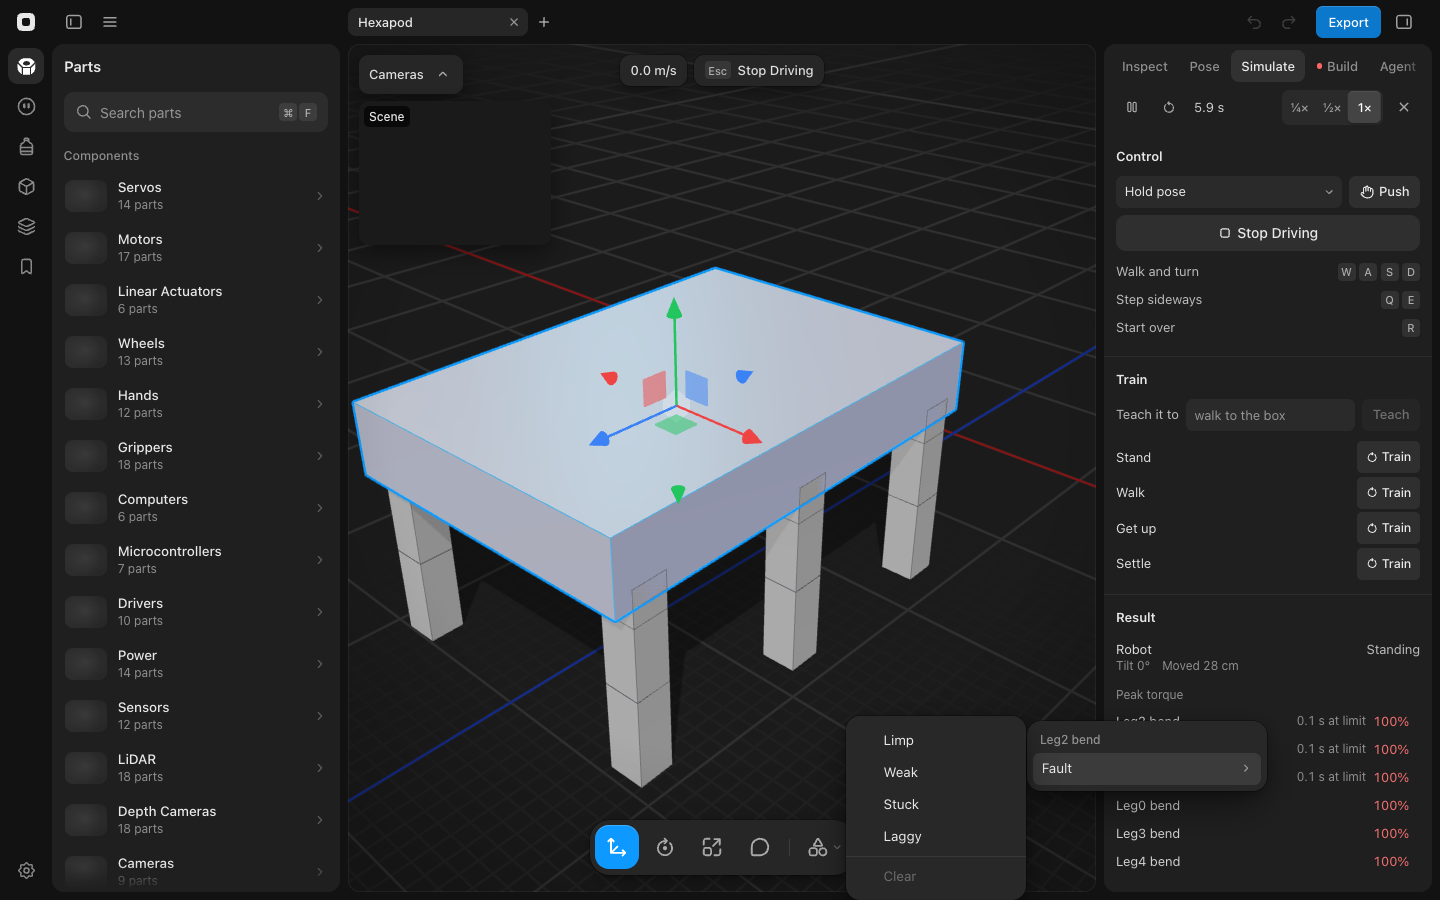
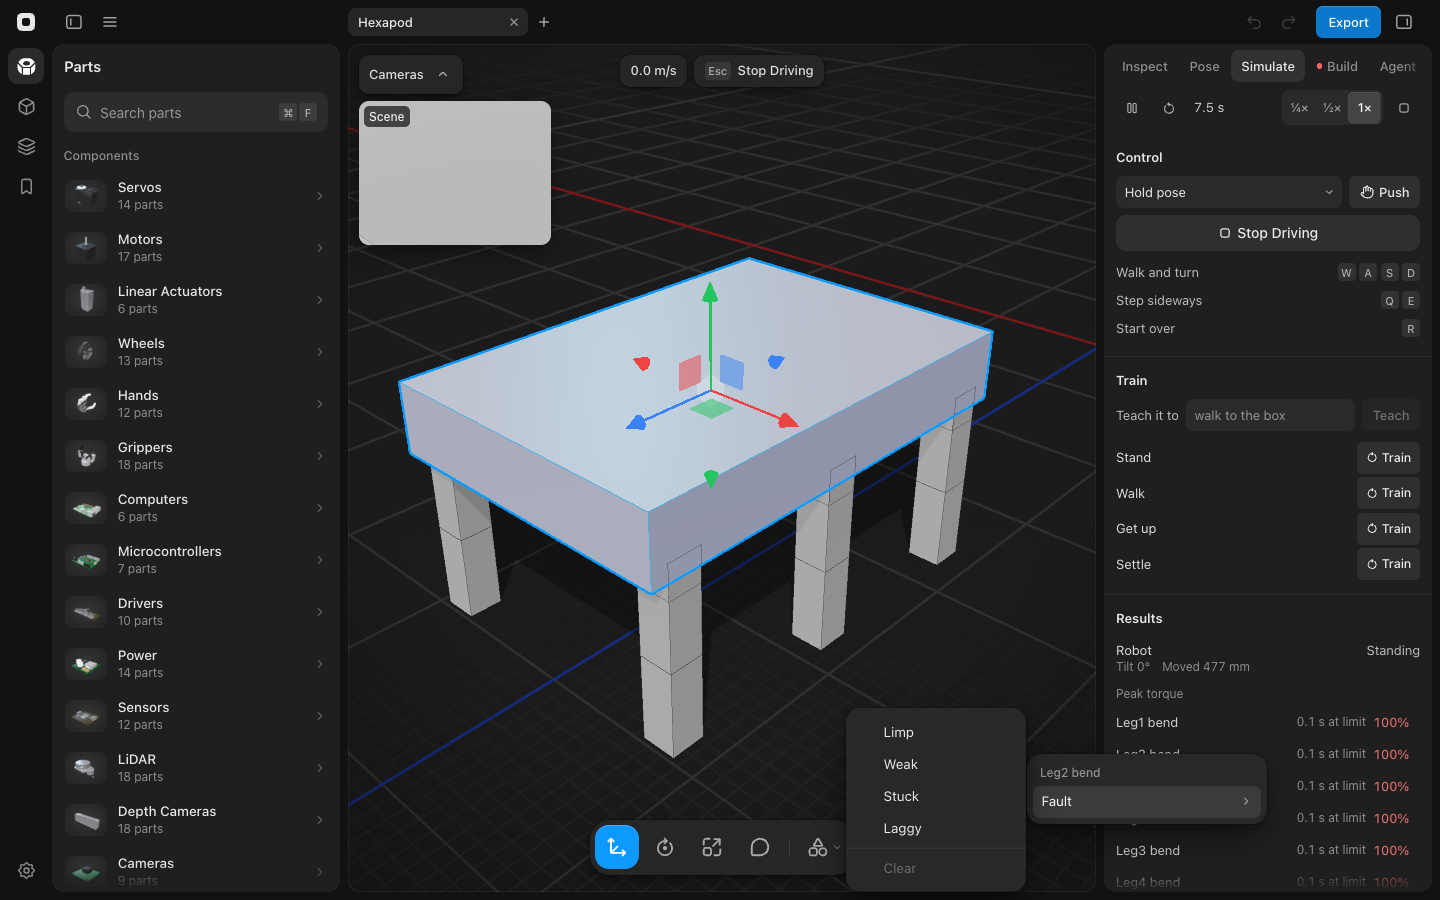
Recapture Fail a servo mid-run's screenshots in the new length format
The runner flagged 15 help articles that cover files this change edits.
Reading them against the new code, two screenshots in Fail a servo
mid-run still showed the Simulate result as "Moved 53 cm" and "Moved 28
cm", which now reads in mm. Both were recaptured from a production bundle
by following the article's steps on the hexapod. They now read "Moved 477
mm" and "Moved 762 mm", with the Fault menu and the Limp row on Leg2 bend
as their alt text says. The other 14 articles still hold.

diff --git a/src/cases/caseGoals.ts b/src/cases/caseGoals.ts
@@ -165,7 +165,7 @@ export const routeClearance = (robot: BuilderRobot) =>
 const blockRunUp = (robot: BuilderRobot) =>
   2 * (BLOCK_DEPTH_MM + routeClearance(robot) * 1.2 + robot.footprint.depth + robot.footprint.width);
 
-export const mm = (x: number) => `${Math.round(x)} mm`;
+const setLength = (x: number) => `${Math.round(x)} mm`;
 
 const reachGoal: CaseGoal = {
   kind: 'reach',
@@ -174,7 +174,7 @@ const reachGoal: CaseGoal = {
   params: ['distanceMm', 'radiusMm', 'seconds'],
   plan: (robot, v, _world, [named] = []) => {
     const [x, z] = named ? [named.at[0], named.at[2]] : [robot.pivot[0], robot.pivot[2] + v.distanceMm];
-    const where = named ? named.phrase : `${mm(v.distanceMm)} ahead`;
+    const where = named ? named.phrase : `${setLength(v.distanceMm)} ahead`;
 
     return {
       brief: `Reach the spot ${where} and stop on it.`,
@@ -276,7 +276,7 @@ const pushGoal: CaseGoal = {
     const behind = half + robot.footprint.depth / 2;
 
     return {
-      brief: `Push the box ${mm(v.pushMm)} onto the spot.`,
+      brief: `Push the box ${setLength(v.pushMm)} onto the spot.`,
       slot: groundSlot(robot),
       objects: [
         {
@@ -348,7 +348,7 @@ const walkGoal: CaseGoal = {
   needs: ['legs'],
   params: ['distanceMm', 'seconds'],
   plan: (robot, v) => ({
-    brief: `Walk ${mm(v.distanceMm)} without falling.`,
+    brief: `Walk ${setLength(v.distanceMm)} without falling.`,
     slot: { needs: ['legs'], binding: {} },
     objects: [],
     probes: [{ signal: 'travel', from: 'base', to: { point: robot.pivot } }],
@@ -363,7 +363,7 @@ const walkGoal: CaseGoal = {
     route: routeAlong(robot, robot.pivot[2] + v.distanceMm),
     waypoints: [{ at: [robot.pivot[0], robot.pivot[1], robot.pivot[2] + v.distanceMm * WALK_PAST_SHARE] }],
   }),
-  problem: (_robot, v) => (v.distanceMm < MIN_WALK_MM ? `Walk at least ${mm(MIN_WALK_MM)}.` : null),
+  problem: (_robot, v) => (v.distanceMm < MIN_WALK_MM ? `Walk at least ${setLength(MIN_WALK_MM)}.` : null),
 };
 
 export function fallGuard(robot: BuilderRobot): { probe: CaseProbe; failure: Contract['failures'][number] } {

diff --git a/src/agent/agentSim.ts b/src/agent/agentSim.ts
@@ -11,6 +11,7 @@ import type { PoseReply } from './agentPose';
 import { TOOL_IMAGE_SIDE } from './agentPoseShared';
 import { errorMessage } from '../utils/errorMessage';
 import { duration, runClock } from '../utils/duration';
+import { lengthLabel, signedLengthLabel } from '../utils/size';
 import { weight } from '../utils/weight';
 import { plural } from '../../electron/plural.mjs';
 
@@ -87,7 +88,7 @@ function robotLine(r: SimRun['stats']['robots'][number], model: SimRun['model'],
 
   if (!robot.floating) return `${robot.name}: base welded to the floor (no leg joints).`;
 
-  return `${robot.name}: ${r.fellAt !== null ? `FELL at ${runClock(r.fellAt)}` : `stayed up for ${duration(seconds)}`}; tilt ${Math.round(r.tilt)}°, height change ${Math.round(r.height * 1000)} mm, moved ${Math.round(r.travelled * 1000)} mm (${Math.round(r.forward * 1000)} mm forward).`;
+  return `${robot.name}: ${r.fellAt !== null ? `FELL at ${runClock(r.fellAt)}` : `stayed up for ${duration(seconds)}`}; tilt ${Math.round(r.tilt)}°, height change ${signedLengthLabel(r.height * 1000)}, moved ${lengthLabel(r.travelled * 1000)} (${signedLengthLabel(r.forward * 1000)} forward).`;
 }
 
 function effortLine(j: SimRun['stats']['joints'][number], model: SimRun['model'], rig: Rig): string {
@@ -241,7 +242,7 @@ function evalSummary(e: PolicyRecord['eval']): string {
 
   if (e.fellAt !== null) return `; fell at ${runClock(e.fellAt)} in a clean run`;
 
-  return `; stayed up ${duration(e.seconds)} in a clean run, ${Math.round(e.forward * 1000)} mm forward`;
+  return `; stayed up ${duration(e.seconds)} in a clean run, ${signedLengthLabel(e.forward * 1000)} forward`;
 }
 
 export function trainingStatusText(ctx: SimContext): string {

diff --git a/src/agent/agentDrive.ts b/src/agent/agentDrive.ts
@@ -21,6 +21,7 @@ import type { Rig, V3 } from '../utils/kinematics';
 import { toCad, toScene } from './agentFrame';
 import { plural } from '../../electron/plural.mjs';
 import { duration, runClock } from '../utils/duration';
+import { lengthLabel, signedLengthLabel } from '../utils/size';
 
 export interface DriveToolContext {
   sim: Simulation;
@@ -193,7 +194,7 @@ function driveReport({ ctx, run, cls, seconds }: ReportInput): string {
 
   if (r && cls !== 'arm') {
     lines.push(
-      `Moved ${(r.travelled * 1000).toFixed(0)} mm, ${(r.forward * 1000).toFixed(0)} mm of it forward; tilt ${r.tilt.toFixed(0)}°.`,
+      `Moved ${lengthLabel(r.travelled * 1000)}, ${signedLengthLabel(r.forward * 1000)} of it forward; tilt ${r.tilt.toFixed(0)}°.`,
     );
     lines.push(r.fellAt === null ? 'Stayed up.' : `Fell at ${runClock(r.fellAt)}.`);
   }

diff --git a/src/skills/anythingBody.ts b/src/skills/anythingBody.ts
@@ -1,6 +1,7 @@
 import type { MainModule } from '@mujoco/mujoco';
 import { SimEngine } from '../sim/engine';
 import type { SimModel } from '../sim/mjcfTypes';
+import { lengthLabel } from '../utils/size';
 
 export type V3 = [number, number, number];
 export type BodyClass = 'arm' | 'wheels' | 'legs' | 'other';
@@ -153,7 +154,7 @@ export function describeBody(facts: BodyFacts): string {
 
   return [
     `This robot is ${CLASS_WORDS[facts.cls]}.`,
-    facts.floating ? `At rest its base stands ${Math.round(facts.heightM * 1000)} mm above the floor.` : '',
+    facts.floating ? `At rest its base stands ${lengthLabel(facts.heightM * 1000)} above the floor.` : '',
     `The base part is ${facts.rootPart}. Positions below are where each part sits at rest.`,
     'Parts:',
     ...parts,

diff --git a/src/utils/size.test.ts b/src/utils/size.test.ts
@@ -1,5 +1,5 @@
 import { describe, expect, it } from 'vitest';
-import { lengthFigure, lengthLabel, sizeFigures, sizeLabel } from './size';
+import { lengthFigure, lengthLabel, signedLengthLabel, sizeFigures, sizeLabel } from './size';
 
 describe('size', () => {
   it('shows tenths of a millimeter under 100 mm, without a trailing zero', () => {
@@ -37,5 +37,11 @@ describe('size', () => {
     expect(lengthLabel(12_345)).toBe('12.3 m');
     expect(lengthLabel(123_456)).toBe('123 m');
     expect(lengthLabel(-3)).toBe('0 mm');
+  });
+
+  it('keeps the sign of a signed length', () => {
+    expect(signedLengthLabel(-12.34)).toBe('-12.3 mm');
+    expect(signedLengthLabel(-1234)).toBe('-1.23 m');
+    expect(signedLengthLabel(845.2)).toBe('845 mm');
   });
 });

diff --git a/src/utils/size.ts b/src/utils/size.ts
@@ -20,6 +20,8 @@ export function lengthLabel(mm: number): string {
   return Math.round(v) < 1000 ? `${lengthFigure(v)} mm` : metres(Math.round(v) / 1000);
 }
 
+export const signedLengthLabel = (mm: number): string => (mm < 0 ? `-${lengthLabel(-mm)}` : lengthLabel(mm));
+
 export const sizeFigures = (mm: readonly number[]): string => mm.map(lengthFigure).join(' × ');
 
 export const sizeLabel = (mm: readonly number[]): string => `${sizeFigures(mm)} mm`;

diff --git a/docs/guide/copy.md b/docs/guide/copy.md
@@ -51,7 +51,7 @@ Every word in the UI is product copy. Write it to the standard below, and check 
     - Times and dates go through `src/utils/timeAgo.ts`, never a raw ISO date or a hand-built format. A list column uses `timeAgo` (“now”, “5m”, “2h”, “3d”, then “Nov 4”); a phrase uses `agoPhrase` (“Made just now”, “5m ago”); a date uses `dayLabel` (“Checked Nov 4”). Each adds the year only when it isn't this year (“Nov 4, 2025”). A printed document, read long after it's made, uses `fullDate` (“November 13, 2026”), which always has the year. A clock time uses `clockTime` (“Fault at 2:32 PM”), the same on every machine. Text a date can't be read from (an agent's price date before it was checked) shows as written. Date groups (Today, Yesterday, Previous 7 days, then the month) come from `groupByDate`.
     - Durations in the app and the agent's text go through `src/utils/duration.ts`, never a hand-built `${n} s`. A moment in a run or a running clock uses `runClock`, which keeps one decimal so it holds its width (“Fell at 2.0 s”); so does a span shown beside one, so the two match (a try's length, “0.4 s at limit”, an animation's length beside its scrub). A span uses `duration`: tenths of a second under a minute (“0.5 s”, “45 s”), then its two largest units with the second padded (“1 min 05 s”, “1 h 05 min”). An estimate rounds to the minute and never shows zero (`duration(s, 'min')`: “≈ 1 h 05 min”, “About 3 min left”). A value someone set shows as written, in seconds: a task contract's windows, a keyframe's time, a try's horizon and the limits that check them (“A try lasts 0.5 to 60 s.”), and a Routine step's wait, timeout and cooldown (“Wait 0.25 s”, then `duration` from a minute: “Walk for 5 min”). A span under a tenth of a second shows hundredths, so a positive span never reads “0 s” (“above stall for 0.03 s”). Sub-second engineering timings checked against a limit in milliseconds (a scenario step's elapsed time, a control gap) stay in whole ms, the unit their limit is written in.
     - A size reads through `sizeLabel` (`src/utils/size.ts`; `sizeFigures` without the unit, for a muted `mm` or a table headed in mm), never a hand-built `${w} × ${h} × ${d}`, in the app and in the print report the agent reads (each printed part and the bed's keep-out): tenths of a millimeter under 100 mm, without a trailing zero (“48 × 18 × 14.9 mm”), then whole millimeters (“256 × 256 × 250 mm”), and hundredths below 0.05 mm, so a positive length never reads “0”. On screen it's `SizeLine` (`src/components/PartDetails.tsx`), with `mm` muted. That holds for a catalog part's Key specs and All specs, hardware Specs, a Library model's tile and card, a SimReady object's card, the selection's size in the Inspector, Layers' Overall size, the agent's part preview, printed parts and plates in Print mode, the bill of materials and the build guide's cover. A value someone typed, in a field or a catalog spec, shows as written, and so do the exact dimensions the agent models from (its parts catalog, the scene and the design brief it reads).
-    - A single length the app measures (how far a robot moved or walked, an overlap, a gap, a margin, a miss, a reach) reads through `lengthLabel` (`src/utils/size.ts`), never a hand-built `${n} mm`, `${cm} cm` or `${m.toFixed(2)} m`: the figures of a size under a meter (“0.4 mm”, “12.3 mm”, “845 mm”), then meters to three figures (“1.23 m”, “12.3 m”, “123 m”). That holds for Checks and the findings the agent reads from them (overlaps, center of mass, standing stability, off-axis servos, fastener runs, insert walls), a sim run's Moved, a trained walk's Walked, a skill's reach and grip messages, a pose's or gait's misses, a linkage's error and a retarget's worst point. A value someone set shows as written (a Case goal's distance, a Routine step's meters, a nozzle, a screw or insert length), and so do Measure's readouts, which follow its unit, and a wall checked against the 0.84 mm minimum, in the hundredths its limit is written in.
+    - A single length the app measures (how far a robot moved or walked, an overlap, a gap, a margin, a miss, a reach) reads through `lengthLabel` (`src/utils/size.ts`), never a hand-built `${n} mm`, `${cm} cm` or `${m.toFixed(2)} m`: the figures of a size under a meter (“0.4 mm”, “12.3 mm”, “845 mm”), then meters to three figures (“1.23 m”, “12.3 m”, “123 m”). A length with a direction (a height change, distance forward) uses `signedLengthLabel`, which keeps its minus sign (“-12.3 mm”). That holds for Checks and the findings the agent reads from them (overlaps, center of mass, standing stability, off-axis servos, fastener runs, insert walls), a sim run's Moved, a trained walk's Walked, the agent's sim, drive and training reports, a robot's rest height in the notes the agent writes skills from, a skill's reach and grip messages, a pose's or gait's misses, a linkage's error and a retarget's worst point. A value someone set shows as written (a Case goal's distance, through `setLength` in `src/cases/caseGoals.ts`, a Routine step's meters, a nozzle, a screw or insert length), and so do Measure's readouts, which follow its unit, and a wall checked against the 0.84 mm minimum, in the hundredths its limit is written in.
     - A weight is labeled Weight in the app, never Mass (center of mass stays), and reads through `weight` (`src/utils/weight.ts`), never a hand-built `${n} g` or `${kg.toFixed(2)} kg`: tenths of a gram under 10 g (“0.4 g”) and hundredths under 0.05 g, so a positive weight never reads “0 g” (“0.02 g”), whole grams to a kilogram (“85 g”), then kilograms to three figures (“1.25 kg”, “35.2 kg”, “120 kg”). That holds for the Weight check, Explore and Compare, an object's card, plates and printed parts in Print mode, a servo's strength, and the agent's reports. A value someone wrote shows as written: a catalog part's or supply's weight, a payload set on a skill, and filament to buy in the bill of materials.
 16. **No middle dots (`·`) between items, and no other separator glyph in their place** (a pipe, `•`, `—`). Separate facts with layout instead:
     - a meta line of facts: `MetaLine` (items 12px apart; `SectionHeader` and the part page and hover card subtitles take a list and use it);
